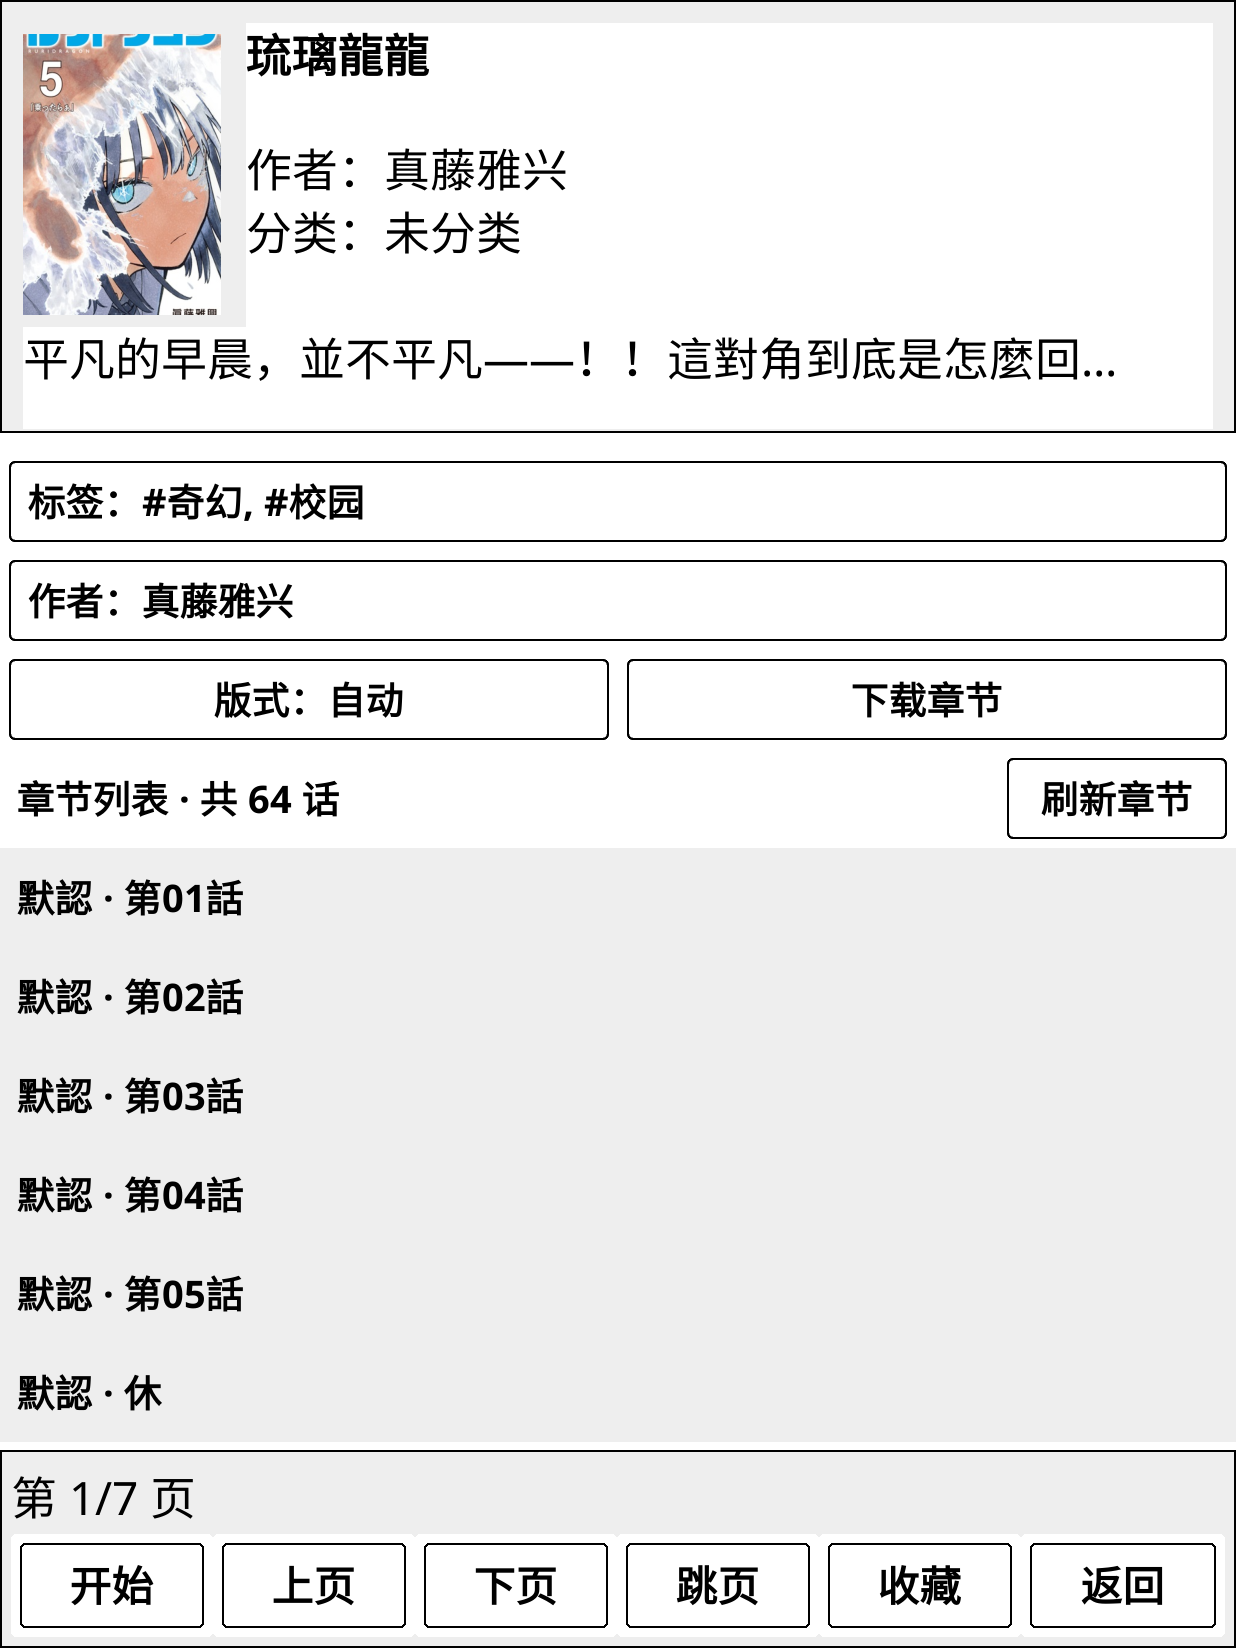
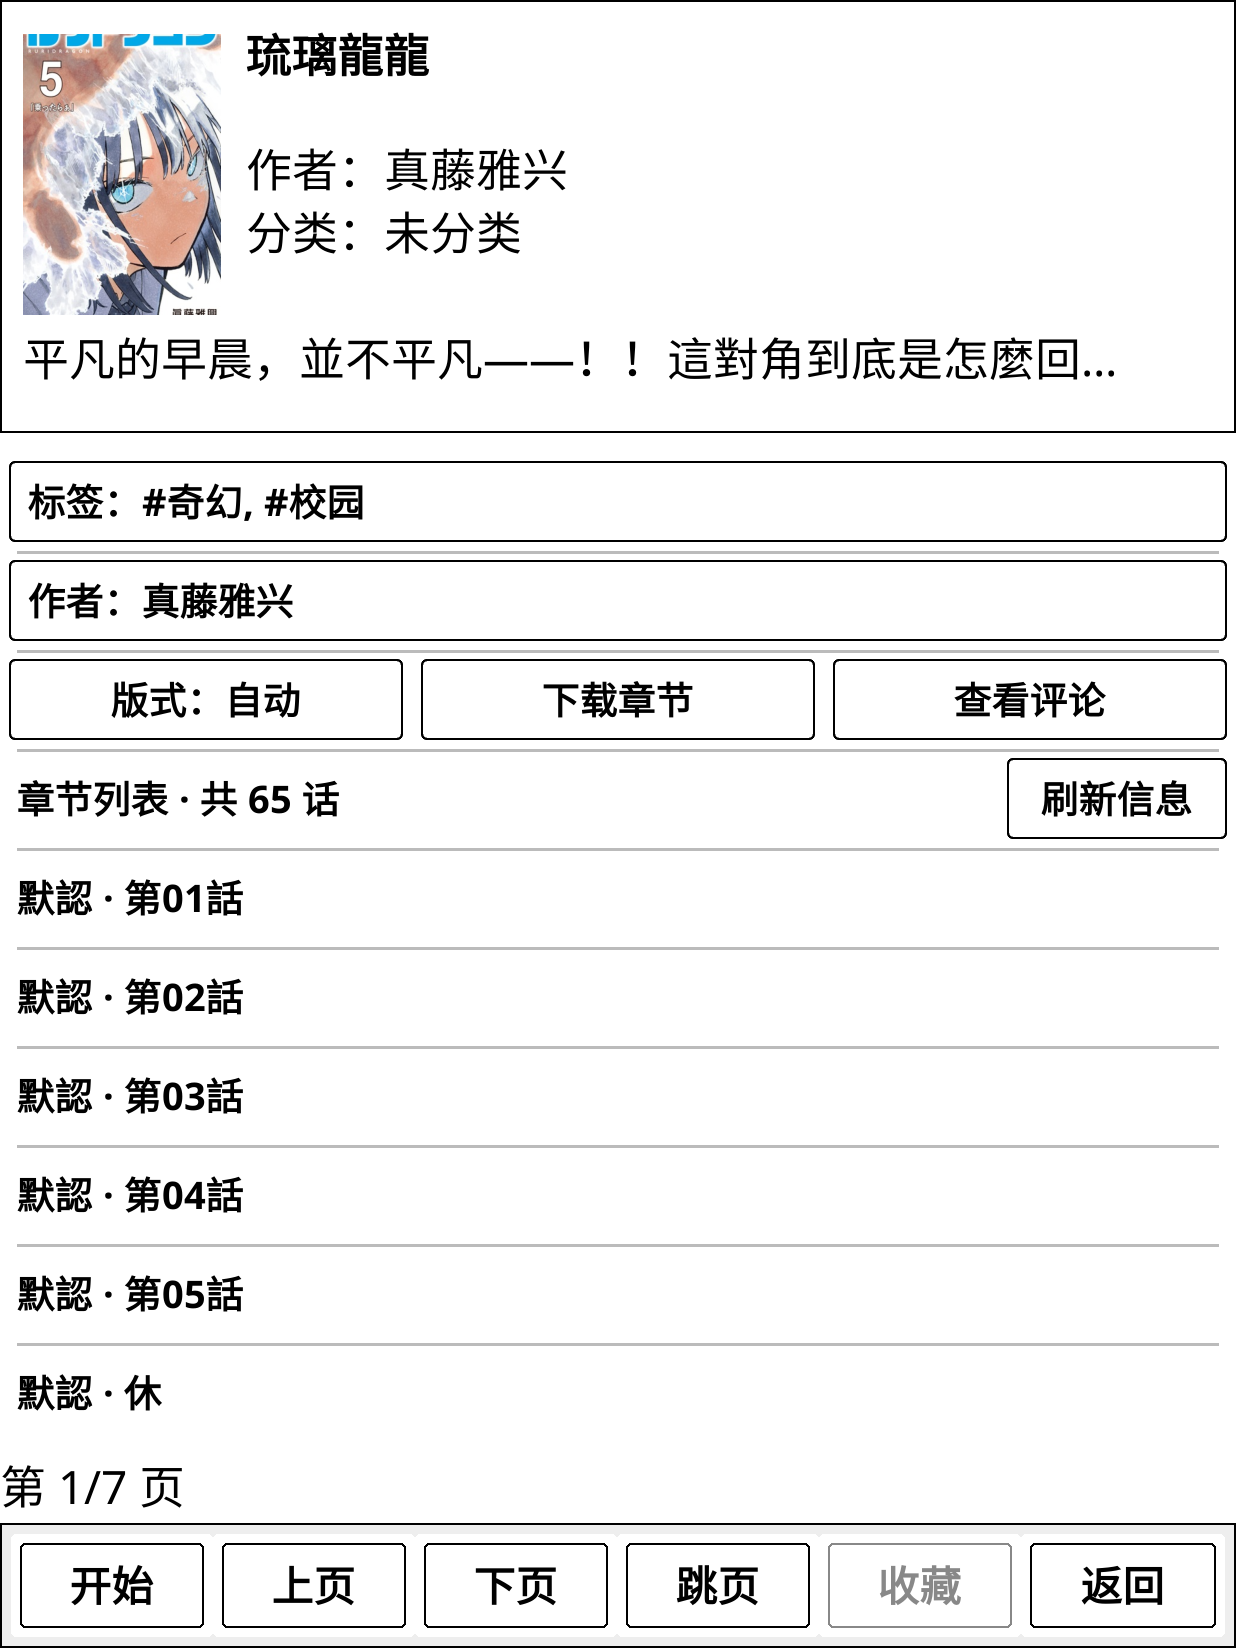
docs: refresh details and manga reading previews

diff --git a/README.en.md b/README.en.md
@@ -10,9 +10,9 @@ A manga and novel reader plugin for [KOReader](https://github.com/koreader/korea
 
 ## Preview
 
-| Home | Manga details | Novel details | Novel reading |
+| Home | Details | Manga reading | Novel reading |
 |---|---|---|---|
-| ![Home](docs/screenshots/home.png) | ![Manga details](docs/screenshots/detail.png) | ![Novel details](docs/screenshots/novel-detail.png) | ![Novel reading](docs/screenshots/novel-reader.png) |
+| ![Home](docs/screenshots/home.png) | ![Details](docs/screenshots/detail.png) | ![Manga reading](docs/screenshots/comic-reader.png) | ![Novel reading](docs/screenshots/novel-reader.png) |
 
 
 ## Installation

diff --git a/README.md b/README.md
@@ -8,9 +8,9 @@
 
 ## 页面预览
 
-| 主页 | 漫画详情 | 小说详情 | 小说阅读 |
+| 主页 | 详情页 | 漫画阅读 | 小说阅读 |
 |---|---|---|---|
-| ![主页](docs/screenshots/home.png) | ![漫画详情](docs/screenshots/detail.png) | ![小说详情](docs/screenshots/novel-detail.png) | ![小说阅读](docs/screenshots/novel-reader.png) |
+| ![主页](docs/screenshots/home.png) | ![详情页](docs/screenshots/detail.png) | ![漫画阅读](docs/screenshots/comic-reader.png) | ![小说阅读](docs/screenshots/novel-reader.png) |
 
 
 ## 安装
